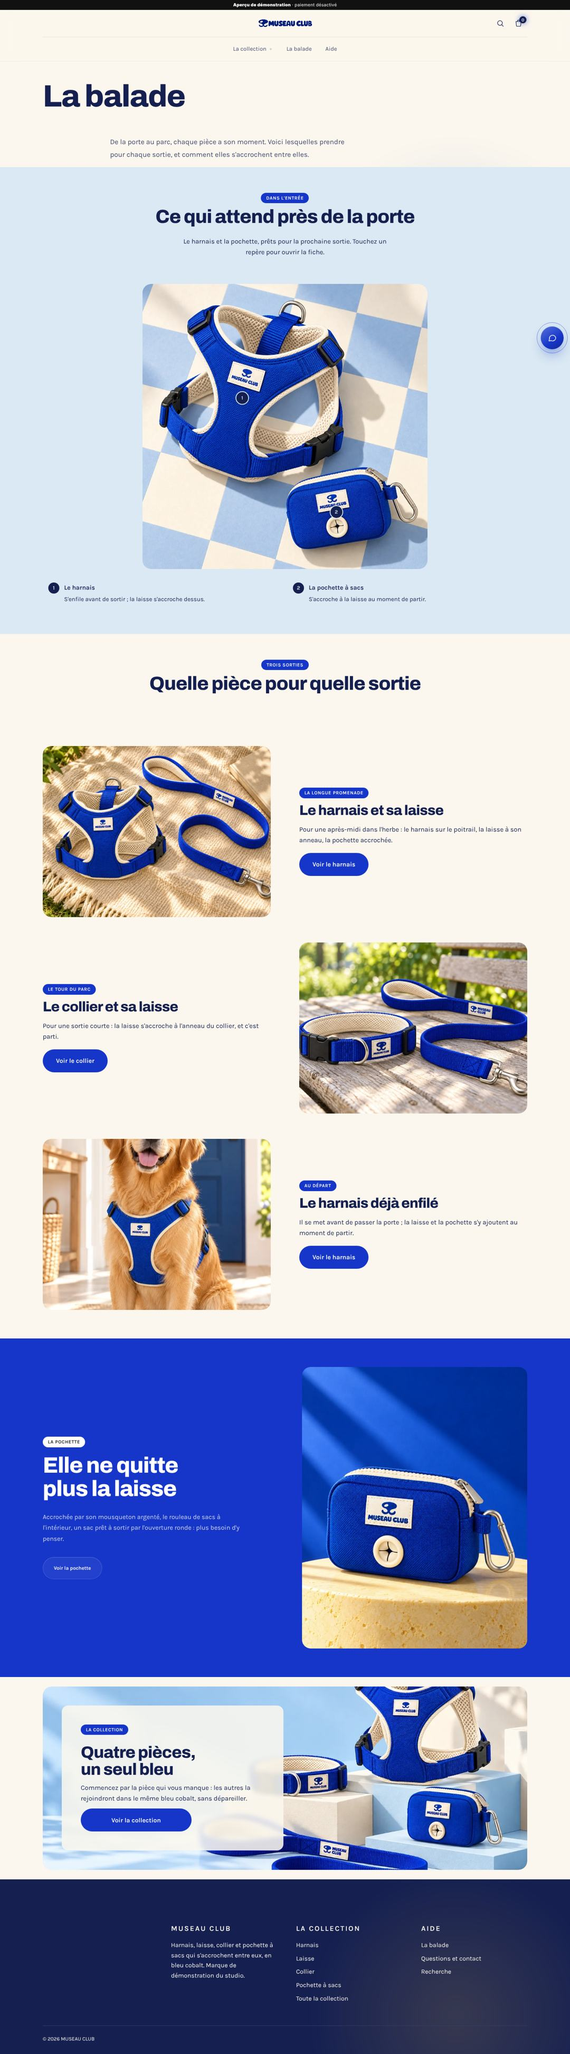
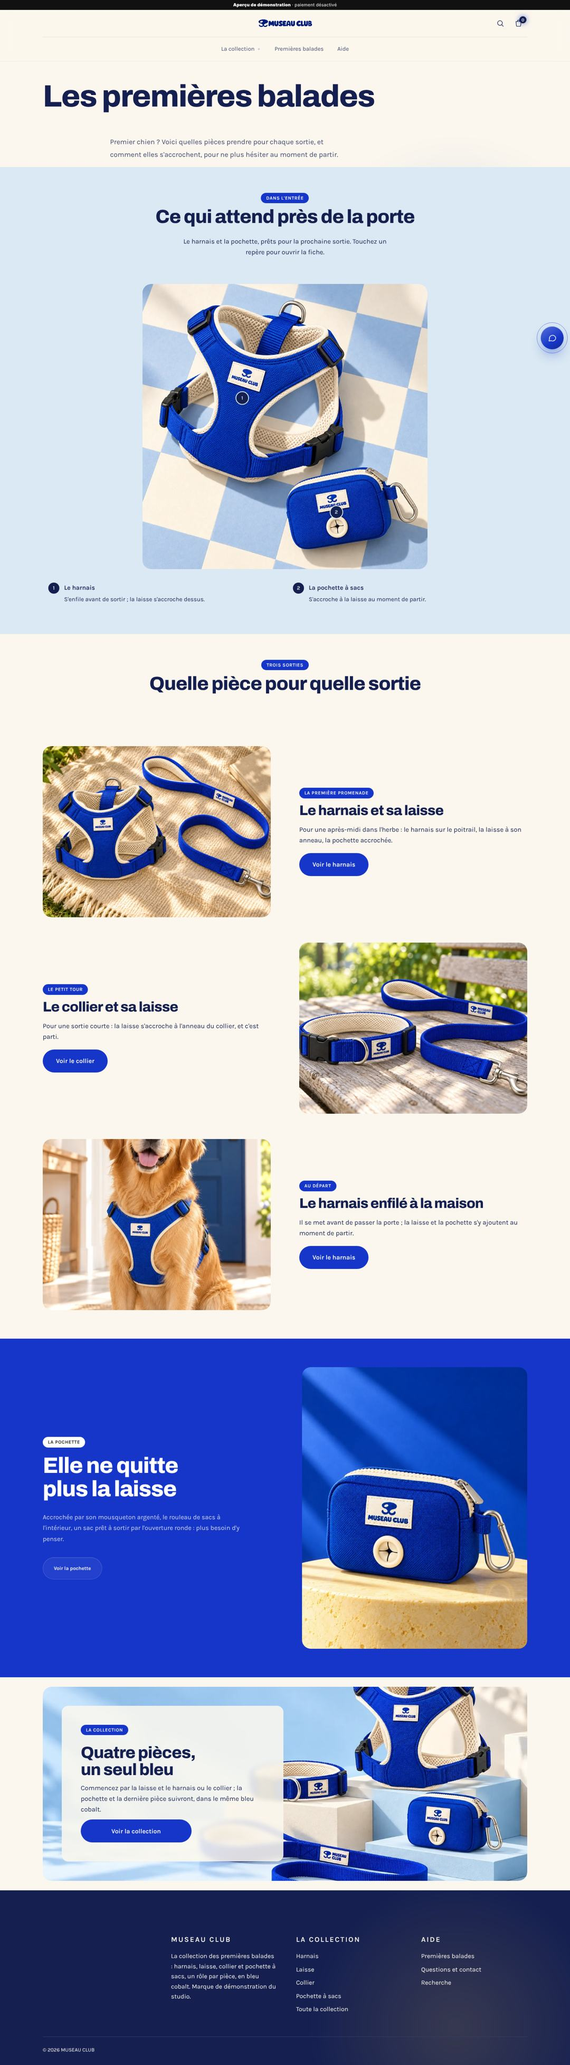
MUSEAU CLUB : « premier chien, premières balades : chaque pièce a son rôle » (consigne de Thomas, 21 h 45)
- Cible : la personne qui accueille son premier chien ; rôle explicite de chaque pièce (harnais à porter pour la
  promenade, collier au quotidien, laisse de chaque sortie, pochette pour les sacs) sur l'accueil, les repères, la
  grille, les quatre fiches (son rôle, quand l'utiliser, ce qu'on voit, avec quelle pièce), la collection et la page
  « Les premières balades ».
- FAQ : par quoi commencer, harnais ou collier, comment tout s'accroche, faut-il tout acheter ; aucun conseil de
  dressage ou de santé, tailles et matières non inventées. H1 attendu par le test mis à jour. Captures régénérées.

Claude-Session: https://claude.ai/code/session_01EKtK8Za16S8DnNDefXRRF7

diff --git a/tests/museau-souple-fixtures.ts b/tests/museau-souple-fixtures.ts
@@ -108,21 +108,23 @@ export const SOUPLE_PRODUCTS: KitProduct[] = [
 ];
 export const MULTI_KIT_PRODUCTS: Record<MultiKitId, KitProduct[]> = { "museau-club": MUSEAU_PRODUCTS, souple: SOUPLE_PRODUCTS };
 
-// MUSEAU CLUB — fiche de stratégie (consigne du 21 octobre, 19 h 50 ; hypothèse éditoriale, pas une étude) :
-//  1. cible : un propriétaire de chien en ville, qui sort son chien plusieurs fois par jour, souvent pressé le matin ;
-//  2. tension, avec ses mots : « Je cherche la laisse, il me manque toujours un sac, et rien n'est assorti. » ;
-//  3. désir : sortir en un geste, fier de son duo — angle unique : la balade commence à la porte, tout est prêt et tout
-//     va ensemble ;
-//  4. promesse tenable : quatre pièces qui s'accrochent entre elles (mousquetons, anneaux) et partagent le même bleu ;
-//     faits : visuels (anneaux, mousquetons, boucles, maille crème, ouverture de la pochette, rangement près de la porte) ;
-//  5. objections : harnais ou collier (rôles, même laisse), comment tout s'accroche, l'assortiment, la taille et le prix
-//     (non renseignés : information dédiée), les sacs (non affirmés) ;
-//  6. parcours : ouverture (la scène et un repère par pièce) → grille (un rôle par pièce) → harnais porté → collier porté
-//     → pochette (l'achat) → la porte (tout part ensemble) → FAQ (le choix) → inscription.
+// MUSEAU CLUB — fiche de stratégie (consigne de Thomas du 21 octobre, 21 h 45 ; brief, hypothèse éditoriale) :
+//  utilisateur et acheteur : une personne qui accueille son premier chien ;
+//  situation d'achat : les jours qui précèdent ou suivent l'arrivée du chien, devant un rayon où tout se ressemble ;
+//  tension (ses mots) : « Harnais, collier, laisse… je ne sais pas ce qui sert à quoi, ni par quoi commencer. » ;
+//  désir : que les premières balades se passent simplement, sans hésiter au moment de sortir ;
+//  angle unique : préparer ses premières balades avec un ensemble cohérent, un rôle clair pour chaque pièce ;
+//  promesse tenable : quatre pièces au rôle distinct (porter : harnais ou collier ; relier : laisse ; accompagner :
+//  pochette) qui s'accrochent entre elles ; faits = visuels (anneaux, mousquetons, boucles, maille crème, ouverture
+//  de la pochette, rangement près de la porte) ;
+//  objections : par quoi commencer, harnais ou collier, faut-il tout acheter, comment tout s'accroche, tailles et prix
+//  (non renseignés : dits comme tels) ;
+//  exclusions : aucun conseil de dressage ou de santé, aucune matière, taille, résistance ni sécurité affirmées.
 export const MUSEAU_FAQ: [string, string][] = [
-  ["Harnais ou collier : lequel choisir ?", "Le harnais se porte sur le poitrail, le collier autour du cou ; les deux reçoivent la même laisse sur leur anneau argenté. Prenez celui que votre chien porte déjà volontiers, ou les deux."],
+  ["Premier chien : par quoi commencer ?", "Par la laisse et une pièce à porter, le harnais ou le collier : c'est tout ce qu'il faut pour la première sortie. La pochette à sacs s'accroche ensuite à la laisse."],
+  ["Harnais ou collier ?", "Le harnais se porte sur le poitrail, le collier autour du cou ; les deux reçoivent la même laisse sur leur anneau argenté. Choisissez celui que votre chien accepte le plus volontiers, ou prenez les deux."],
   ["Comment les pièces s'accrochent-elles entre elles ?", "La laisse s'accroche par son mousqueton à l'anneau du harnais ou du collier ; la pochette s'attache à la laisse par le sien. Au moment de sortir, tout part d'un seul geste."],
-  ["Les quatre pièces vont-elles ensemble ?", "Oui : même bleu cobalt, même étiquette MUSEAU CLUB, et la même maille crème au harnais, à la poignée de la laisse et à l'intérieur du collier."],
+  ["Faut-il tout acheter d'un coup ?", "Non. Commencez par la laisse et la pièce à porter ; les autres viendront ensuite, dans le même bleu cobalt et avec la même maille crème."],
   ["Que puis-je faire dans cette boutique de démonstration ?", "Parcourir les quatre pièces et leurs cinq vues. Les prix et les tailles ne sont pas encore renseignés et la commande est désactivée : laissez votre adresse dans « Nouvelles du club » pour être prévenu de l'ouverture."],
 ];
 export const MUSEAU_FAQ_PENDING: [string, string][] = [
@@ -139,7 +141,7 @@ const BRANDS: Record<MultiKitId, Brand> = {
     name: "MUSEAU CLUB", product: "Collection de balade MUSEAU CLUB", category: "Accessoires de balade pour chiens",
     summary: "Collection de balade pour chiens en bleu cobalt : un harnais, une laisse, un collier et une pochette à sacs assortis, avec maille crème, boucles noires, anneaux et mousquetons argentés et étiquette MUSEAU CLUB.",
     facts: [["Collection", "harnais, laisse, collier et pochette à sacs assortis"], ["Couleurs", "bleu cobalt, maille crème, boucles noires, métal argenté"]],
-    tagline: "La balade commence à la porte.", story: "MUSEAU CLUB est né d'une idée simple : que tout soit prêt au moment de sortir, et que tout aille ensemble, du harnais à la pochette.", positioning: "Une collection de balade pour chien dont les pièces s'accrochent entre elles : harnais, laisse, collier et pochette à sacs, en bleu cobalt.",
+    tagline: "Premier chien, premières balades.", story: "MUSEAU CLUB est né pour celles et ceux qui accueillent leur premier chien : quatre pièces au rôle clair, qui s'accrochent entre elles, pour ne plus hésiter au moment de sortir.", positioning: "Une collection de balade pour un premier chien : harnais, laisse, collier et pochette à sacs, chacun avec son rôle, en bleu cobalt.",
     // Bleu cobalt des sangles, crème de la maille, jaune du socle (ambiance-06), crème clair, marine du logo.
     palette: { primary: "#1636C9", secondary: "#EFE6D2", accent: "#F2C14E", light: "#FBF7EE", dark: "#0B1B5E" },
   },
@@ -171,36 +173,36 @@ type Fiche = { eyebrow: string; text: string; highlights: string; description: s
 // ─── MUSEAU CLUB ──────────────────────────────────────────────────────────────────────────────────────────────────
 const MUSEAU_FICHES: Record<string, Fiche> = {
   harnais: {
-    eyebrow: "Harnais · pour la promenade",
-    text: "Il s'enfile avant de sortir et se porte sur le poitrail ; la laisse assortie s'accroche à l'anneau du dessus.",
-    highlights: "Sangle bleu cobalt, doublure en maille crème\nDeux boucles noires à clip sur les côtés\nAnneau argenté sur le dessus\nÉtiquette MUSEAU CLUB sur le poitrail",
-    description: p("Son rôle : la promenade. Il se porte sur le poitrail, s'enfile avant de passer la porte et reçoit la laisse sur l'anneau argenté du dessus.") + p("Ce qu'on voit : une sangle bleu cobalt doublée de maille crème bordée d'un liseré bleu, deux boucles noires sur les côtés, des passants noirs qui tiennent les bretelles.") + p("Avec qui : la laisse, qui s'accroche à son anneau, et la pochette, qui s'accroche à la laisse. Les trois partent ensemble."),
-    seo: { title: "Harnais MUSEAU CLUB cobalt et maille crème | MUSEAU CLUB", description: "Harnais bleu cobalt doublé de maille crème : boucles noires, anneau argenté, étiquette MUSEAU CLUB. Cinq vues, de trois quarts, de profil et en gros plan." },
-    tags: ["harnais", "bleu cobalt", "maille crème"],
+    eyebrow: "Harnais · à porter pour la promenade",
+    text: "La pièce que votre chien porte pour la promenade : il s'enfile à la maison, se ferme sur les côtés, et la laisse s'accroche à l'anneau du dessus.",
+    highlights: "Se porte sur le poitrail\nDeux boucles noires à clip sur les côtés\nAnneau argenté pour la laisse, sur le dessus\nSangle bleu cobalt doublée de maille crème",
+    description: p("Son rôle : se porter pendant la promenade. Il passe sur le poitrail et reçoit la laisse sur l'anneau argenté du dessus.") + p("Quand l'utiliser : enfilez-le à la maison, avant de passer la porte, puis accrochez la laisse.") + p("Ce qu'on voit : une sangle bleu cobalt doublée de maille crème bordée d'un liseré bleu, deux boucles noires sur les côtés, des passants noirs qui tiennent les bretelles.") + p("Avec quelle pièce : la laisse, qui s'accroche à son anneau ; la pochette s'accroche ensuite à la laisse."),
+    seo: { title: "Harnais MUSEAU CLUB cobalt : à porter pour la promenade", description: "Le harnais MUSEAU CLUB se porte sur le poitrail et reçoit la laisse sur son anneau argenté. Cinq vues : de trois quarts, de profil, en gros plan." },
+    tags: ["harnais", "bleu cobalt", "premier chien"],
   },
   laisse: {
-    eyebrow: "Laisse · le lien de l'ensemble",
-    text: "Elle relie tout : son mousqueton s'accroche au harnais ou au collier, la pochette s'attache à elle, la main tient la poignée doublée.",
-    highlights: "Sangle bleu cobalt\nPoignée doublée de maille crème\nMousqueton argenté\nÉtiquette MUSEAU CLUB près de la poignée",
-    description: p("Son rôle : relier les pièces entre elles. Son mousqueton argenté s'accroche à l'anneau du harnais comme à celui du collier.") + p("Ce qu'on voit : une sangle bleu cobalt, une poignée en boucle doublée de maille crème, l'étiquette MUSEAU CLUB cousue près de la main.") + p("Pourquoi elle : c'est la pièce que l'on prend à chaque sortie. La pochette à sacs s'y accroche et ne la quitte plus."),
-    seo: { title: "Laisse MUSEAU CLUB cobalt, poignée en maille crème | MUSEAU CLUB", description: "Laisse en sangle bleu cobalt, poignée doublée de maille crème et mousqueton argenté. Cinq vues : dépliée, enroulée et en gros plan." },
-    tags: ["laisse", "bleu cobalt", "maille crème"],
+    eyebrow: "Laisse · la pièce de chaque sortie",
+    text: "La seule pièce qui sert à chaque sortie : son mousqueton s'accroche au harnais comme au collier, la pochette s'attache à elle.",
+    highlights: "S'accroche au harnais ou au collier\nMousqueton argenté\nPoignée doublée de maille crème\nLa pochette à sacs s'y accroche",
+    description: p("Son rôle : relier votre chien à votre main, à chaque sortie. Son mousqueton argenté s'accroche à l'anneau du harnais comme à celui du collier.") + p("Quand l'utiliser : à chaque fois que vous passez la porte, quelle que soit la pièce que porte votre chien.") + p("Ce qu'on voit : une sangle bleu cobalt, une poignée en boucle doublée de maille crème, l'étiquette MUSEAU CLUB cousue près de la main.") + p("Avec quelle pièce : le harnais ou le collier d'un côté, la pochette à sacs accrochée à elle."),
+    seo: { title: "Laisse MUSEAU CLUB cobalt : la pièce de chaque sortie", description: "La laisse MUSEAU CLUB s'accroche au harnais comme au collier et reçoit la pochette : sangle cobalt, poignée en maille crème, mousqueton argenté." },
+    tags: ["laisse", "bleu cobalt", "premier chien"],
   },
   collier: {
-    eyebrow: "Collier · pour tous les jours",
-    text: "Fermé par sa boucle noire, doublé de maille crème côté cou : il reçoit la même laisse que le harnais.",
-    highlights: "Sangle bleu cobalt, intérieur en maille crème\nBoucle noire à clip et passant noir\nAnneau argenté\nÉtiquette MUSEAU CLUB",
-    description: p("Son rôle : le quotidien. Il se porte autour du cou, garde l'étiquette MUSEAU CLUB sur le côté et reçoit la laisse pour le tour du parc.") + p("Ce qu'on voit : une sangle bleu cobalt doublée de maille crème côté cou, une boucle noire, un passant noir, un anneau argenté à côté de l'étiquette.") + p("Avec qui : la laisse, pour les sorties courtes. Le harnais prend le relais pour les longues promenades, avec la même laisse."),
-    seo: { title: "Collier MUSEAU CLUB cobalt doublé de maille crème | MUSEAU CLUB", description: "Collier bleu cobalt à l'intérieur en maille crème : boucle noire, anneau argenté, étiquette MUSEAU CLUB. Cinq vues, fermé, ouvert et en gros plan." },
-    tags: ["collier", "bleu cobalt", "maille crème"],
+    eyebrow: "Collier · à porter au quotidien",
+    text: "La pièce que votre chien garde autour du cou au quotidien ; pour une sortie courte, la même laisse s'accroche à son anneau.",
+    highlights: "Se porte autour du cou\nBoucle noire à clip et passant noir\nAnneau argenté pour la laisse\nIntérieur en maille crème côté cou",
+    description: p("Son rôle : se porter au quotidien, autour du cou. Il garde l'étiquette MUSEAU CLUB sur le côté et un anneau argenté pour la laisse.") + p("Quand l'utiliser : pour le petit tour du soir, la laisse accrochée à son anneau suffit ; pour la promenade, le harnais prend le relais avec la même laisse.") + p("Ce qu'on voit : une sangle bleu cobalt doublée de maille crème côté cou, une boucle noire, un passant noir, un anneau argenté à côté de l'étiquette.") + p("Avec quelle pièce : la laisse, la même que celle du harnais."),
+    seo: { title: "Collier MUSEAU CLUB cobalt : à porter au quotidien", description: "Le collier MUSEAU CLUB se porte au quotidien et reçoit la même laisse que le harnais : bleu cobalt, maille crème, boucle noire, anneau argenté." },
+    tags: ["collier", "bleu cobalt", "premier chien"],
   },
   pochette: {
-    eyebrow: "Pochette à sacs · toujours accrochée",
-    text: "Accrochée à la laisse par son mousqueton, elle garde le rouleau de sacs ; un sac sort par l'ouverture ronde.",
-    highlights: "Tissu bleu cobalt, zip bordé de crème\nMousqueton argenté sur le côté\nOuverture ronde en façade pour tirer un sac\nUn rouleau de sacs se range à l'intérieur",
-    description: p("Son rôle : que les sacs ne soient plus jamais oubliés. Accrochée à la laisse, elle part à chaque sortie sans y penser.") + p("Ce qu'on voit : un petit étui bleu cobalt fermé par un zip bordé de crème, un mousqueton argenté sur le côté, une ouverture ronde en façade d'où sort un sac.") + p("Avec qui : la laisse, à laquelle elle s'accroche. Le rouleau de sacs se range à l'intérieur."),
-    seo: { title: "Pochette à sacs MUSEAU CLUB cobalt | MUSEAU CLUB", description: "Pochette à sacs bleu cobalt : zip bordé de crème, mousqueton argenté, ouverture ronde en façade. Cinq vues, fermée, ouverte et en gros plan." },
-    tags: ["pochette", "bleu cobalt"],
+    eyebrow: "Pochette à sacs · pour ne jamais les oublier",
+    text: "Elle garde le rouleau de sacs et reste accrochée à la laisse : un sac sort par l'ouverture ronde quand vous en avez besoin.",
+    highlights: "S'accroche à la laisse par son mousqueton\nUn rouleau de sacs se range à l'intérieur\nOuverture ronde en façade pour tirer un sac\nTissu bleu cobalt, zip bordé de crème",
+    description: p("Son rôle : que les sacs partent à chaque sortie. Accrochée à la laisse, elle suit sans y penser.") + p("Quand l'utiliser : accrochez-la une fois à la laisse ; elle n'en bouge plus.") + p("Ce qu'on voit : un petit étui bleu cobalt fermé par un zip bordé de crème, un mousqueton argenté sur le côté, une ouverture ronde en façade d'où sort un sac.") + p("Avec quelle pièce : la laisse, à laquelle elle s'accroche. Les sacs fournis ou non ne sont pas encore renseignés."),
+    seo: { title: "Pochette à sacs MUSEAU CLUB cobalt, accrochée à la laisse", description: "La pochette MUSEAU CLUB s'accroche à la laisse et garde le rouleau de sacs ; un sac sort par l'ouverture ronde. Cinq vues, fermée et ouverte." },
+    tags: ["pochette", "bleu cobalt", "premier chien"],
   },
 };
 
@@ -209,7 +211,7 @@ function curateMuseau(k: Kit) {
   const items = MUSEAU_PRODUCTS;
   const href = (key: string) => `/products/${items.find((x) => x.key === key)!.handle}`;
   k.demoMeta();
-  spec.store.seo = { title: "MUSEAU CLUB | Harnais, laisse, collier et pochette à sacs assortis pour chien", description: "La balade commence à la porte : harnais, laisse, collier et pochette à sacs MUSEAU CLUB en bleu cobalt, qui s'accrochent entre eux. Prêts en un geste." };
+  spec.store.seo = { title: "MUSEAU CLUB | Premier chien : harnais, laisse, collier, pochette", description: "Préparez les premières balades de votre chien : harnais, laisse, collier et pochette MUSEAU CLUB, un rôle clair par pièce, qui s'accrochent entre elles." };
 
   // ─── Quatre produits, quatre fiches : chaque produit a son propre modèle (texte, points, vues), cloné du modèle composé.
   const baseKey = k.productKey();
@@ -226,7 +228,7 @@ function curateMuseau(k: Kit) {
   });
   spec.store.product = products[0];
   spec.store.products = products.slice(1);
-  spec.store.collections = [{ handle: "all", title: "La collection", description: "Le harnais pour la promenade, le collier pour tous les jours, la laisse qui relie tout, la pochette qui ne la quitte plus. Même bleu cobalt.", products: products.map((x) => x.handle) }];
+  spec.store.collections = [{ handle: "all", title: "La collection", description: "Pour les premières balades : le harnais pour la promenade, le collier au quotidien, la laisse de chaque sortie, la pochette pour les sacs.", products: products.map((x) => x.handle) }];
   const keyOf = (pr: StoreProduct) => (pr.template_suffix ? `product.${pr.template_suffix}` : "product");
   const mpSchema = sectionSchema(spec, "main-product")!;
   const block = (type: string, settings: Record<string, unknown>) => ({ type, settings: withDefaults(mpSchema.blocks.find((b) => b.type === type)?.settings, settings) });
@@ -261,19 +263,19 @@ function curateMuseau(k: Kit) {
   const firstGrid = home.order.findIndex((sid) => home.sections[sid].type === "fs-products");
   for (const sid of home.order.filter((s, i) => i < firstGrid && home.sections[s].type === "cv-banner")) { delete home.sections[sid]; home.order.splice(home.order.indexOf(sid), 1); }
   overlay("index", [
-    section("cv-hotspots", { ...img("ambiance-01.webp"), layout: "side", ratio: "wide", heading_tag: "h1", eyebrow: "Collection de balade pour chien", heading: "Tout pour la balade,", heading_accent: "prêt à la porte", text: p("Harnais, laisse, collier et pochette à sacs en bleu cobalt : la laisse s'accroche au harnais ou au collier, la pochette à la laisse. Touchez un repère pour ouvrir sa fiche."), button_label: "Voir les quatre pièces", button_link: "/collections/all", link_label: "Voir la fiche", show_list: true, demo_note: "", focus_x: 50, focus_y: 50, animation: "fade", animation_speed: "normal", color_scheme: "scheme-1", padding_top: 24, padding_bottom: 64 }, [
-      spot(78, 22, "Le harnais", "Sur le poitrail, pour la promenade : la laisse s'accroche à son anneau.", href("harnais")),
-      spot(60, 76, "La laisse", "Le lien de l'ensemble : elle reçoit la pochette et s'accroche au harnais ou au collier.", href("laisse")),
-      spot(52, 50, "Le collier", "Pour tous les jours ; il reçoit la même laisse que le harnais.", href("collier")),
-      spot(81, 64, "La pochette à sacs", "Accrochée à la laisse : un sac sort par l'ouverture ronde.", href("pochette")),
+    section("cv-hotspots", { ...img("ambiance-01.webp"), layout: "side", ratio: "wide", heading_tag: "h1", eyebrow: "Collection de balade pour un premier chien", heading: "Premier chien, premières balades :", heading_accent: "chaque pièce a son rôle", text: p("Harnais, collier, laisse, pochette : on ne sait jamais ce qui sert à quoi. Ici, chaque pièce a un rôle, et toutes s'accrochent entre elles. Touchez un repère pour ouvrir sa fiche."), button_label: "Voir les quatre pièces", button_link: "/collections/all", link_label: "Voir la fiche", show_list: true, demo_note: "", focus_x: 50, focus_y: 50, animation: "fade", animation_speed: "normal", color_scheme: "scheme-1", padding_top: 24, padding_bottom: 64 }, [
+      spot(78, 22, "Le harnais", "À porter pour la promenade : sur le poitrail, la laisse s'accroche à son anneau.", href("harnais")),
+      spot(60, 76, "La laisse", "La pièce de chaque sortie : elle s'accroche au harnais ou au collier.", href("laisse")),
+      spot(52, 50, "Le collier", "À porter au quotidien ; il reçoit la même laisse que le harnais.", href("collier")),
+      spot(81, 64, "La pochette à sacs", "Accrochée à la laisse, pour ne jamais partir sans sac.", href("pochette")),
     ]),
-    section("fs-products", { layout: "grid", source: "collection", collection: "all", eyebrow: "Une pièce, un rôle", heading: "Quatre pièces", heading_accent: "qui s'accrochent entre elles", text: p("Chacune a son moment dans la balade et s'attache à la suivante : commencez par celle qui vous manque."), align: "left", button_label: "Comparer les quatre pièces", button_link: "/collections/all", mode_label: "", limit: 4, columns: 4, ratio: "square", show_secondary: true, effect: "rise", stagger: true, hover: true, background: "scheme", color_scheme: "scheme-3", padding_top: 72, padding_bottom: 72 }),
-    section("cv-banner", { ...img("ambiance-02.webp"), layout: "background", eyebrow: "Le harnais", heading: "Sur le poitrail, de la porte jusqu'au parc", heading_tag: "h2", heading_accent: "", text: p("Il s'enfile avant de sortir, se ferme par ses deux boucles noires sur les côtés, et la laisse s'accroche à l'anneau du dessus."), price_text: "", price_note: "", button_label: "Voir le harnais", button_link: href("harnais"), note: "", focus_x: 56, focus_y: 46, animation: "fade", animation_speed: "normal", color_scheme: "scheme-1", padding_top: 24, padding_bottom: 24 }),
-    section("image-with-text", { ...img("ambiance-04.webp"), layout: "image-left", ratio: "square", reveal: "up", parallax: false, eyebrow: "Le collier", heading: "Pour le petit tour du quotidien", text: p("Fermé par sa boucle noire, doublé de maille crème côté cou, il reçoit la même laisse que le harnais : pour une sortie courte, il suffit."), button_label: "Voir le collier", button_link: href("collier"), color_scheme: "scheme-1", padding_top: 48, padding_bottom: 72 }),
-    section("featured-purchase", { label: "La pochette", heading: "Pochette à sacs MUSEAU CLUB", text: p("Fini la poche pleine de sacs : la pochette s'accroche à la laisse par son mousqueton, le rouleau reste à l'intérieur, un sac sort par l'ouverture ronde."), product: items[3].handle, product_target: "product:pochette", purchase_style: "soft", purchase_enabled: false, image_fit: "contain", gallery_limit: 4, enable_zoom: true, link_label: "Voir la fiche complète", color_scheme: "scheme-3" }),
-    section("cta-banner", { ...img("ambiance-03.webp"), heading: "Rangés près de la porte, ils partent avec vous", text: p("La laisse et sa pochette déjà accrochées attendent sur la console : au moment de sortir, on les prend d'un seul geste."), button_label: "Voir la laisse", button_link: href("laisse"), overlay: 50, style: "left", parallax: false, color_scheme: "scheme-2", padding_top: 96, padding_bottom: 96 }),
-    section("faq", { eyebrow: "Questions", heading: "Avant de choisir", text: "", style: "lines", layout: "side", columns: "1", open_first: false, search: false, contact_text: "", button_label: "Toutes les questions", button_link: "/pages/aide", structured_data: false, color_scheme: "scheme-1" }, faqRows(MUSEAU_FAQ)),
-    section("newsletter-media", { ...img("ambiance-09.webp"), layout: "left", eyebrow: "Nouvelles du club", heading: "Être prévenu quand le club ouvre", text: p("Un e-mail à l'ouverture de la boutique, un autre quand une pièce ou une taille arrive. Rien d'autre."), perk_1: "", perk_2: "", perk_3: "", button_label: "Me prévenir", legal: p("Désinscription possible à tout moment depuis chaque e-mail."), color_scheme: "scheme-4" }),
+    section("fs-products", { layout: "grid", source: "collection", collection: "all", eyebrow: "Une pièce, un rôle", heading: "Ce qui sert à quoi,", heading_accent: "en un coup d'œil", text: p("Le harnais et le collier se portent, la laisse relie, la pochette accompagne. Pour la première sortie : la laisse et l'une des deux pièces à porter."), align: "left", button_label: "Voir les quatre rôles", button_link: "/collections/all", mode_label: "", limit: 4, columns: 4, ratio: "square", show_secondary: true, effect: "rise", stagger: true, hover: true, background: "scheme", color_scheme: "scheme-3", padding_top: 72, padding_bottom: 72 }),
+    section("cv-banner", { ...img("ambiance-02.webp"), layout: "background", eyebrow: "Le harnais · à porter", heading: "Pour la promenade, de la porte jusqu'au parc", heading_tag: "h2", heading_accent: "", text: p("Enfilez-le à la maison, fermez les deux boucles noires sur les côtés, accrochez la laisse à l'anneau du dessus : vous êtes prêts."), price_text: "", price_note: "", button_label: "Voir le harnais", button_link: href("harnais"), note: "", focus_x: 56, focus_y: 46, animation: "fade", animation_speed: "normal", color_scheme: "scheme-1", padding_top: 24, padding_bottom: 24 }),
+    section("image-with-text", { ...img("ambiance-04.webp"), layout: "image-left", ratio: "square", reveal: "up", parallax: false, eyebrow: "Le collier · à porter", heading: "Au quotidien, et pour le petit tour du soir", text: p("Fermé par sa boucle noire, doublé de maille crème côté cou, il porte l'étiquette MUSEAU CLUB. Pour une sortie courte, la même laisse s'accroche à son anneau."), button_label: "Voir le collier", button_link: href("collier"), color_scheme: "scheme-1", padding_top: 48, padding_bottom: 72 }),
+    section("featured-purchase", { label: "La pochette", heading: "Pochette à sacs MUSEAU CLUB", text: p("Les premières semaines, on sort souvent. Accrochée à la laisse par son mousqueton, la pochette garde le rouleau de sacs ; un sac sort par l'ouverture ronde."), product: items[3].handle, product_target: "product:pochette", purchase_style: "soft", purchase_enabled: false, image_fit: "contain", gallery_limit: 4, enable_zoom: true, link_label: "Voir la fiche complète", color_scheme: "scheme-3" }),
+    section("cta-banner", { ...img("ambiance-03.webp"), heading: "Prêts près de la porte, avant même son arrivée", text: p("La laisse et sa pochette déjà accrochées attendent sur la console : le jour où il arrive, la première balade est prête."), button_label: "Voir la laisse", button_link: href("laisse"), overlay: 50, style: "left", parallax: false, color_scheme: "scheme-2", padding_top: 96, padding_bottom: 96 }),
+    section("faq", { eyebrow: "Questions", heading: "Avant les premières sorties", text: "", style: "lines", layout: "side", columns: "1", open_first: false, search: false, contact_text: "", button_label: "Toutes les questions", button_link: "/pages/aide", structured_data: false, color_scheme: "scheme-1" }, faqRows(MUSEAU_FAQ)),
+    section("newsletter-media", { ...img("ambiance-09.webp"), layout: "left", eyebrow: "Nouvelles du club", heading: "Être prévenu quand le club ouvre", text: p("Un e-mail à l'ouverture de la boutique. Rien d'autre."), perk_1: "", perk_2: "", perk_3: "", button_label: "Me prévenir", legal: p("Désinscription possible à tout moment depuis chaque e-mail."), color_scheme: "scheme-4" }),
   ]);
 
   // ─── Fiches : une scène propre à chaque produit, les questions, puis les trois autres pièces (recommandations). ──────
@@ -284,41 +286,41 @@ function curateMuseau(k: Kit) {
   const ficheFaq = () => faq("Questions sur la collection", [...MUSEAU_FAQ, ...MUSEAU_FAQ_PENDING], "cards", "side", "", { color_scheme: "scheme-1" });
   const recos = () => section("product-recommendations", { eyebrow: "La collection", heading: "Les autres pièces assorties", intent: "complementary", fallback_collection: "all", limit: 3, card_ratio: "square", show_secondary: true, color_scheme: "scheme-1", padding_top: 64, padding_bottom: 96 });
   const pageRows: Record<string, ReturnType<typeof section>[]> = {
-    harnais: [scene("ambiance-05.webp", "Avec la laisse", "Le duo des longues promenades", "Sur le plaid au soleil, le harnais et sa laisse : elle s'accroche à l'anneau du dessus, même bleu, même maille crème.", "Voir la laisse", href("laisse"), 40)],
-    laisse: [scene("ambiance-07.webp", "Avec le collier", "Pour le tour du parc, deux pièces suffisent", "Sur le banc du parc, la laisse accrochée à l'anneau du collier : la sortie courte, sans harnais.", "Voir le collier", href("collier"), 55)],
-    collier: [scene("ambiance-10.webp", "La collection", "À réunir, ou à offrir ensemble", "Les quatre pièces réunies autour d'une boîte : pour accueillir un chien à la maison, ou compléter le collier pièce par pièce.", "Voir les quatre pièces", "/collections/all", 50)],
+    harnais: [scene("ambiance-05.webp", "Avec la laisse", "Le duo des premières promenades", "Sur le plaid au soleil, le harnais et sa laisse : elle s'accroche à l'anneau du dessus, même bleu, même maille crème.", "Voir la laisse", href("laisse"), 40)],
+    laisse: [scene("ambiance-07.webp", "Avec le collier", "Pour le petit tour, deux pièces suffisent", "Sur le banc du parc, la laisse accrochée à l'anneau du collier : la sortie courte, sans harnais.", "Voir le collier", href("collier"), 55)],
+    collier: [scene("ambiance-10.webp", "Son arrivée", "Tout ce qu'il faut pour l'accueillir", "Les quatre pièces réunies autour d'une boîte : de quoi préparer ses premières balades, ou compléter le collier pièce par pièce.", "Voir les quatre pièces", "/collections/all", 50)],
     pochette: [scene("ambiance-08.webp", "Dans l'entrée", "Prête avant la sortie", "Posée près du harnais sur le carrelage de l'entrée : accrochée à la laisse au moment de partir, elle ne reste plus sur la console.", "Voir le harnais", href("harnais"), 50)],
   };
   products.forEach((pr, i) => overlay(keyOf(pr), [...pageRows[items[i].key], ficheFaq(), recos()]));
 
   // ─── Pages ──────────────────────────────────────────────────────────────────────────────────────────────────────
-  k.page("la-balade", "La balade", { title: "Quelle pièce pour quelle sortie : la balade MUSEAU CLUB | MUSEAU CLUB", description: "Longue promenade, tour du parc, départ de la maison : quelles pièces MUSEAU CLUB prendre, et comment elles s'accrochent entre elles." }, [
-    ["intro", section("rich-text", { style: "plain", align: "left", color_scheme: "scheme-1", padding_top: 24, padding_bottom: 16 }, [{ type: "text", settings: { text: p("De la porte au parc, chaque pièce a son moment. Voici lesquelles prendre pour chaque sortie, et comment elles s'accrochent entre elles.") } }])],
+  k.page("la-balade", "Les premières balades", { title: "Premières balades : quelle pièce pour quelle sortie | MUSEAU CLUB", description: "Premier chien ? Première promenade, petit tour, départ de la maison : quelles pièces MUSEAU CLUB prendre, et comment elles s'accrochent entre elles." }, [
+    ["intro", section("rich-text", { style: "plain", align: "left", color_scheme: "scheme-1", padding_top: 24, padding_bottom: 16 }, [{ type: "text", settings: { text: p("Premier chien ? Voici quelles pièces prendre pour chaque sortie, et comment elles s'accrochent, pour ne plus hésiter au moment de partir.") } }])],
     ["assortis", section("cv-hotspots", { ...img("ambiance-08.webp"), layout: "stacked", ratio: "square", heading_tag: "h2", eyebrow: "Dans l'entrée", heading: "Ce qui attend près de la porte", heading_accent: "", text: p("Le harnais et la pochette, prêts pour la prochaine sortie. Touchez un repère pour ouvrir la fiche."), button_label: "", button_link: "", link_label: "Voir la fiche", show_list: true, demo_note: "", focus_x: 50, focus_y: 50, animation: "fade", animation_speed: "normal", color_scheme: "scheme-3", padding_top: 64, padding_bottom: 64 }, [
       spot(35, 40, "Le harnais", "S'enfile avant de sortir ; la laisse s'accroche dessus.", href("harnais")),
       spot(68, 80, "La pochette à sacs", "S'accroche à la laisse au moment de partir.", href("pochette")),
     ])],
     ["moments", section("cv-alternating", { eyebrow: "Trois sorties", heading: "Quelle pièce pour quelle sortie", heading_accent: "", text: "", layout: "alternate", ratio: "landscape", animation: "fade", animation_speed: "normal", color_scheme: "scheme-1", padding_top: 64, padding_bottom: 72 }, [
-      { type: "row", settings: { ...img("ambiance-05.webp"), focus_x: 52, focus_y: 50, eyebrow: "La longue promenade", heading: "Le harnais et sa laisse", heading_accent: "", text: p("Pour une après-midi dans l'herbe : le harnais sur le poitrail, la laisse à son anneau, la pochette accrochée."), button_label: "Voir le harnais", button_link: href("harnais") } },
-      { type: "row", settings: { ...img("ambiance-07.webp"), focus_x: 58, focus_y: 50, eyebrow: "Le tour du parc", heading: "Le collier et sa laisse", heading_accent: "", text: p("Pour une sortie courte : la laisse s'accroche à l'anneau du collier, et c'est parti."), button_label: "Voir le collier", button_link: href("collier") } },
-      { type: "row", settings: { ...img("ambiance-09.webp"), focus_x: 45, focus_y: 40, eyebrow: "Au départ", heading: "Le harnais déjà enfilé", heading_accent: "", text: p("Il se met avant de passer la porte ; la laisse et la pochette s'y ajoutent au moment de partir."), button_label: "Voir le harnais", button_link: href("harnais") } },
+      { type: "row", settings: { ...img("ambiance-05.webp"), focus_x: 52, focus_y: 50, eyebrow: "La première promenade", heading: "Le harnais et sa laisse", heading_accent: "", text: p("Pour une après-midi dans l'herbe : le harnais sur le poitrail, la laisse à son anneau, la pochette accrochée."), button_label: "Voir le harnais", button_link: href("harnais") } },
+      { type: "row", settings: { ...img("ambiance-07.webp"), focus_x: 58, focus_y: 50, eyebrow: "Le petit tour", heading: "Le collier et sa laisse", heading_accent: "", text: p("Pour une sortie courte : la laisse s'accroche à l'anneau du collier, et c'est parti."), button_label: "Voir le collier", button_link: href("collier") } },
+      { type: "row", settings: { ...img("ambiance-09.webp"), focus_x: 45, focus_y: 40, eyebrow: "Au départ", heading: "Le harnais enfilé à la maison", heading_accent: "", text: p("Il se met avant de passer la porte ; la laisse et la pochette s'y ajoutent au moment de partir."), button_label: "Voir le harnais", button_link: href("harnais") } },
     ])],
     ["pochette", section("image-with-text", { ...img("ambiance-06.webp"), layout: "image-right", ratio: "portrait", reveal: "up", parallax: false, eyebrow: "La pochette", heading: "Elle ne quitte plus la laisse", text: p("Accrochée par son mousqueton argenté, le rouleau de sacs à l'intérieur, un sac prêt à sortir par l'ouverture ronde : plus besoin d'y penser."), button_label: "Voir la pochette", button_link: href("pochette"), color_scheme: "scheme-2", padding_top: 72, padding_bottom: 72 })],
-    ["collection", section("cv-banner", { ...img("ambiance-01.webp"), layout: "background", eyebrow: "La collection", heading: "Quatre pièces, un seul bleu", heading_tag: "h2", heading_accent: "", text: p("Commencez par la pièce qui vous manque : les autres la rejoindront dans le même bleu cobalt, sans dépareiller."), price_text: "", price_note: "", button_label: "Voir la collection", button_link: "/collections/all", note: "", focus_x: 62, focus_y: 50, animation: "fade", animation_speed: "normal", color_scheme: "scheme-1", padding_top: 24, padding_bottom: 24 })],
+    ["collection", section("cv-banner", { ...img("ambiance-01.webp"), layout: "background", eyebrow: "La collection", heading: "Quatre pièces, un seul bleu", heading_tag: "h2", heading_accent: "", text: p("Commencez par la laisse et le harnais ou le collier ; la pochette et la dernière pièce suivront, dans le même bleu cobalt."), price_text: "", price_note: "", button_label: "Voir la collection", button_link: "/collections/all", note: "", focus_x: 62, focus_y: 50, animation: "fade", animation_speed: "normal", color_scheme: "scheme-1", padding_top: 24, padding_bottom: 24 })],
   ]);
-  k.page("aide", "Questions et contact", { title: "Questions et contact | MUSEAU CLUB, collection de balade", description: "Harnais ou collier, comment les pièces s'accrochent, l'assortiment, ce que permet la démonstration : nos réponses, et un formulaire pour le reste." }, [
+  k.page("aide", "Questions et contact", { title: "Questions et contact | MUSEAU CLUB, collection de balade", description: "Par quoi commencer, harnais ou collier, comment les pièces s'accrochent, faut-il tout acheter : nos réponses pour un premier chien, et un formulaire." }, [
     ["faq", faq("Questions fréquentes", [...MUSEAU_FAQ, ...MUSEAU_FAQ_PENDING], "numbered", "stacked", "", { color_scheme: "scheme-1" })],
-    ["form", section("contact-form", { eyebrow: "Contact", heading: "Une question avant de choisir ?", text: p("Écrivez-nous : le formulaire vérifie les champs avant l'envoi. Dans cette démonstration, aucun message n'est réellement transmis."), email: "", hours: "", response: "", preview_note: true, color_scheme: "scheme-3", padding_top: 64, padding_bottom: 96 })],
+    ["form", section("contact-form", { eyebrow: "Contact", heading: "Une question avant les premières sorties ?", text: p("Écrivez-nous : le formulaire vérifie les champs avant l'envoi. Dans cette démonstration, aucun message n'est réellement transmis."), email: "", hours: "", response: "", preview_note: true, color_scheme: "scheme-3", padding_top: 64, padding_bottom: 96 })],
   ]);
 
   // ─── Menus, en-tête « Deux rangées avec offre », pied « Colonnes d'aide et d'informations » ────────────────────────
   spec.store.menus["main-menu"] = { title: "Navigation", links: [
     { title: "La collection", url: "/collections/all", links: items.map((it) => ({ title: it.title.replace(" MUSEAU CLUB cobalt", ""), url: `/products/${it.handle}` })) },
-    { title: "La balade", url: "/pages/la-balade" },
+    { title: "Premières balades", url: "/pages/la-balade" },
     { title: "Aide", url: "/pages/aide" },
   ] };
   spec.store.menus.footer = { title: "La collection", links: [...items.map((it) => ({ title: it.title.replace(" MUSEAU CLUB cobalt", ""), url: `/products/${it.handle}` })), { title: "Toute la collection", url: "/collections/all" }] };
-  spec.store.menus["footer-aide"] = { title: "Aide", links: [{ title: "La balade", url: "/pages/la-balade" }, { title: "Questions et contact", url: "/pages/aide" }, { title: "Recherche", url: "/search" }] };
+  spec.store.menus["footer-aide"] = { title: "Aide", links: [{ title: "Premières balades", url: "/pages/la-balade" }, { title: "Questions et contact", url: "/pages/aide" }, { title: "Recherche", url: "/search" }] };
   const header = Object.values(spec.groups.header.sections).find((s) => s.type === "header")!;
   header.settings = { ...header.settings, menu: "main-menu", layout: "two-rows", shape: "bar", icons: "plain", mega_menu: "columns-promo", mobile_menu: "cards", mobile_promo: "top", mobile_submenu: "open", sticky: true, transparent_on_home: false, show_search: true, show_cart: true, cta_label: "", phone: "", color_scheme: "scheme-1" };
   // Sous-menu « La collection » : les quatre pièces en colonnes et l'encart des quatre pièces réunies (aussi en tête du
@@ -332,7 +334,7 @@ function curateMuseau(k: Kit) {
   const footer = Object.values(spec.groups.footer.sections).find((s) => s.type === "footer")!;
   footer.settings = { ...footer.settings, style: "columns", show_wordmark: false, show_policies: false, show_payment: false, color_scheme: "scheme-4", logo_asset: "" };
   footer.blocks = {
-    about: { type: "text", settings: { heading: "MUSEAU CLUB", text: p("Harnais, laisse, collier et pochette à sacs qui s'accrochent entre eux, en bleu cobalt. Marque de démonstration du studio.") } },
+    about: { type: "text", settings: { heading: "MUSEAU CLUB", text: p("La collection des premières balades : harnais, laisse, collier et pochette à sacs, un rôle par pièce, en bleu cobalt. Marque de démonstration du studio.") } },
     links: { type: "links", settings: { heading: "La collection", menu: "footer" } },
     help: { type: "links", settings: { heading: "Aide", menu: "footer-aide" } },
   };

diff --git a/tests/museau-club.test.ts b/tests/museau-club.test.ts
@@ -159,7 +159,7 @@ describe("MUSEAU CLUB : démonstration de quatre produits", async () => {
 
   it("accueil : la marque, sa catégorie et les quatre références dès l'ouverture ; repères vers le bon produit", () => {
     const home = pages.get("/")!;
-    expect(home.match(/<h1[^>]*>[\s\S]*?<\/h1>/)![0]).toMatch(/Tout pour la balade/);
+    expect(home.match(/<h1[^>]*>[\s\S]*?<\/h1>/)![0]).toMatch(/Premier chien, premières balades/);
     const opening = types("index")[0];
     expect(opening.settings).toMatchObject({ layout: "side", heading_tag: "h1", button_link: "/collections/all" });
     // Un repère par produit, chacun relié à SA fiche.

diff --git a/docs/COPYWRITING-themes.md b/docs/COPYWRITING-themes.md
@@ -86,24 +86,28 @@ fiches, pages) ; avant / après : `docs/preuves/souple-158/AVANT-APRES.md`. Prem
 sous le titre, tapis, brique et sangle visibles sous le bouton. Limites : prix, matières et dimensions inconnus (blocs
 masqués) ; validation de Thomas attendue.
 
-### MUSEAU CLUB — Produit spécifique, 4 produits — **réécrit**
+### MUSEAU CLUB — Spécialisée, 4 produits — **réécrit (consigne 21 h 45)** : premier chien
 
-1. **Cible** : un propriétaire de chien en ville, qui sort son chien plusieurs fois par jour, souvent pressé le matin.
-2. **Tension** : « Je cherche la laisse, il me manque toujours un sac, et rien n'est assorti. »
-3. **Désir et angle** : sortir en un geste, fier de son duo → la balade commence à la porte : tout est prêt, tout va ensemble.
-4. **Promesse et faits** : quatre pièces qui s'accrochent entre elles (mousquetons, anneaux) dans le même bleu ; faits =
-   visuels (anneaux, mousquetons, boucles, maille crème, ouverture de la pochette, rangement près de la porte).
-5. **Objections** : harnais ou collier (rôles, même laisse) ; comment tout s'accroche ; l'assortiment ; tailles et prix
-   non renseignés (une information dédiée) ; sacs fournis ou non (non affirmé, question en attente).
-6. **Parcours** : scène à repères (un rôle par pièce) → grille « qui s'accrochent entre elles » → harnais porté → collier
-   porté → pochette (l'achat) → la porte → FAQ « Avant de choisir » → inscription « Être prévenu quand le club ouvre ».
+| | |
+|---|---|
+| Utilisateur et acheteur | une personne qui accueille son premier chien (brief) |
+| Situation d'achat | les jours autour de l'arrivée du chien, devant un rayon où tout se ressemble |
+| Tension (ses mots) | « Harnais, collier, laisse… je ne sais pas ce qui sert à quoi, ni par quoi commencer. » |
+| Désir | des premières balades simples, sans hésiter au moment de sortir |
+| Angle unique | préparer ses premières balades avec un ensemble cohérent, un rôle clair par pièce |
+| Promesse tenable | porter (harnais pour la promenade, collier au quotidien), relier (la laisse, à chaque sortie), accompagner (la pochette à sacs) ; tout s'accroche |
+| Objections traitées | par quoi commencer, harnais ou collier, comment tout s'accroche, faut-il tout acheter, ce que permet la démo |
+| **Faits** | visuels : anneaux, mousquetons, boucles, maille crème, ouverture de la pochette, rangement près de la porte |
+| **Non renseigné** | tailles, matières, entretien, sacs fournis, livraison, garantie (questions masquées, prêtes dans l'éditeur) |
+| Exclusions | aucun conseil de dressage ou de santé ; aucune matière, taille, résistance ni sécurité affirmées |
 
-Textes clés : H1 « Tout pour la balade, *prêt à la porte* » ; rôles « Harnais · pour la promenade », « Laisse · le lien
-de l'ensemble », « Collier · pour tous les jours », « Pochette à sacs · toujours accrochée » ; fiches « Son rôle / Ce
-qu'on voit / Avec qui » ; scènes « Le duo des longues promenades », « Pour le tour du parc, deux pièces suffisent »,
-« À réunir, ou à offrir ensemble », « Prête avant la sortie » ; page « La balade » : « Quelle pièce pour quelle sortie ».
-Pages réécrites : accueil, collection, 4 fiches, « La balade », aide, pied, SEO. Preuves : `docs/preuves/copywriting/museau-club/`.
-Limites : tailles, matières, sacs fournis, prix inconnus (blocs masqués).
+Pages : accueil (« Premier chien, premières balades : *chaque pièce a son rôle* » → « Ce qui sert à quoi, *en un coup
+d'œil* » → harnais « à porter, pour la promenade » → collier « au quotidien, et pour le petit tour du soir » → pochette →
+« Prêts près de la porte, avant même son arrivée » → « Avant les premières sorties » → inscription) ; quatre fiches
+structurées « Son rôle / Quand l'utiliser / Ce qu'on voit / Avec quelle pièce » ; collection ; « Les premières balades »
+(ex-« La balade ») ; aide ; menus ; pied ; SEO. Visuels cohérents (chiens portant les pièces, entrée, boîte d'accueil).
+Test mis à jour : le H1 attendu devient « Premier chien, premières balades ». Code : `tests/museau-souple-fixtures.ts`.
+Preuves : `docs/preuves/copywriting/museau-club/` (26 captures).
 
 ### HEUREN — E-commerce, mono-produit — **réécrit**
 
